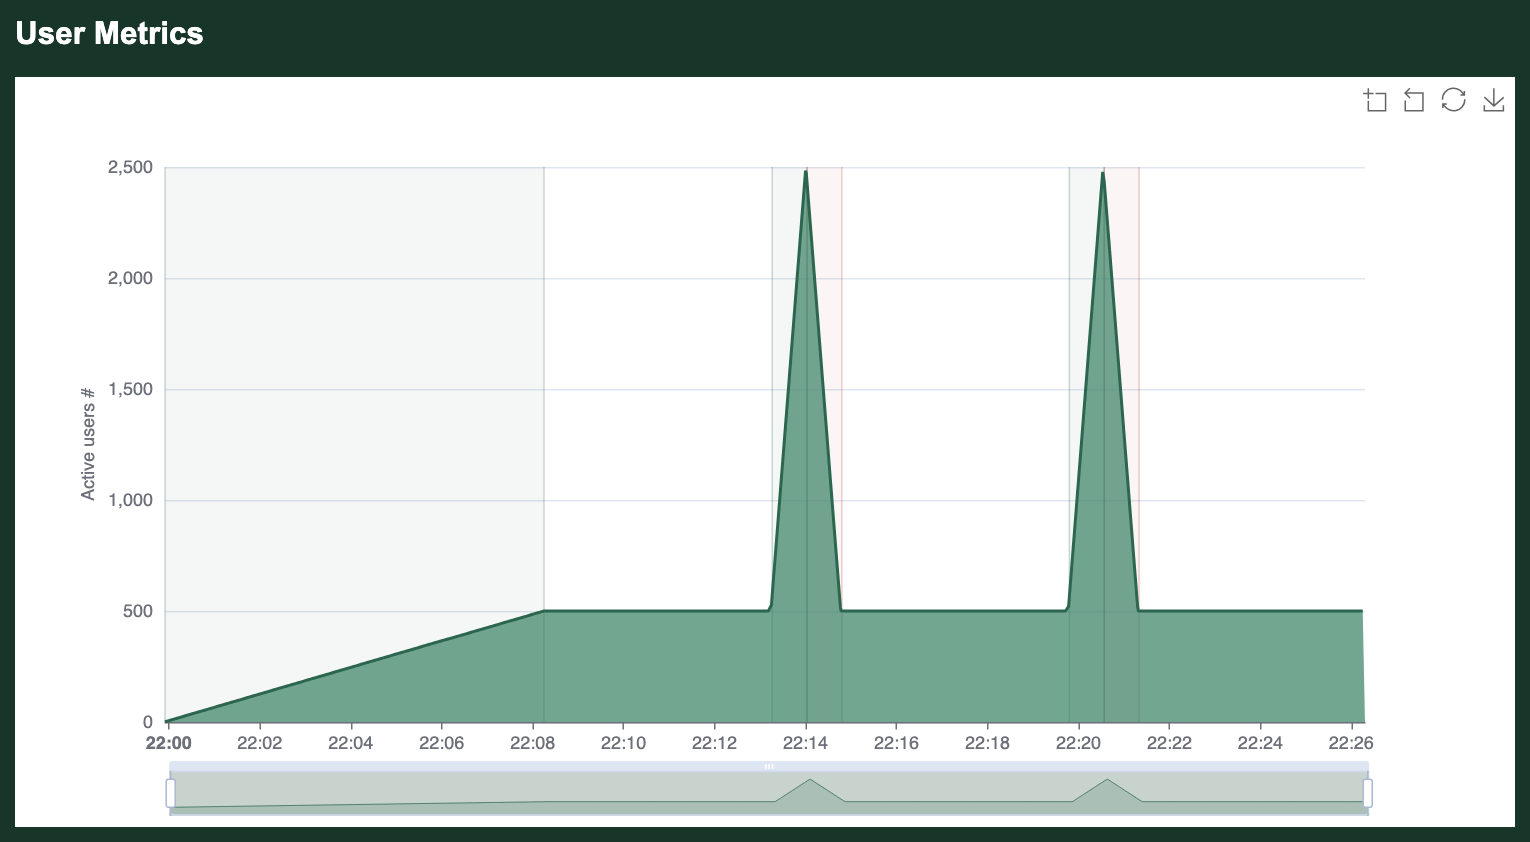
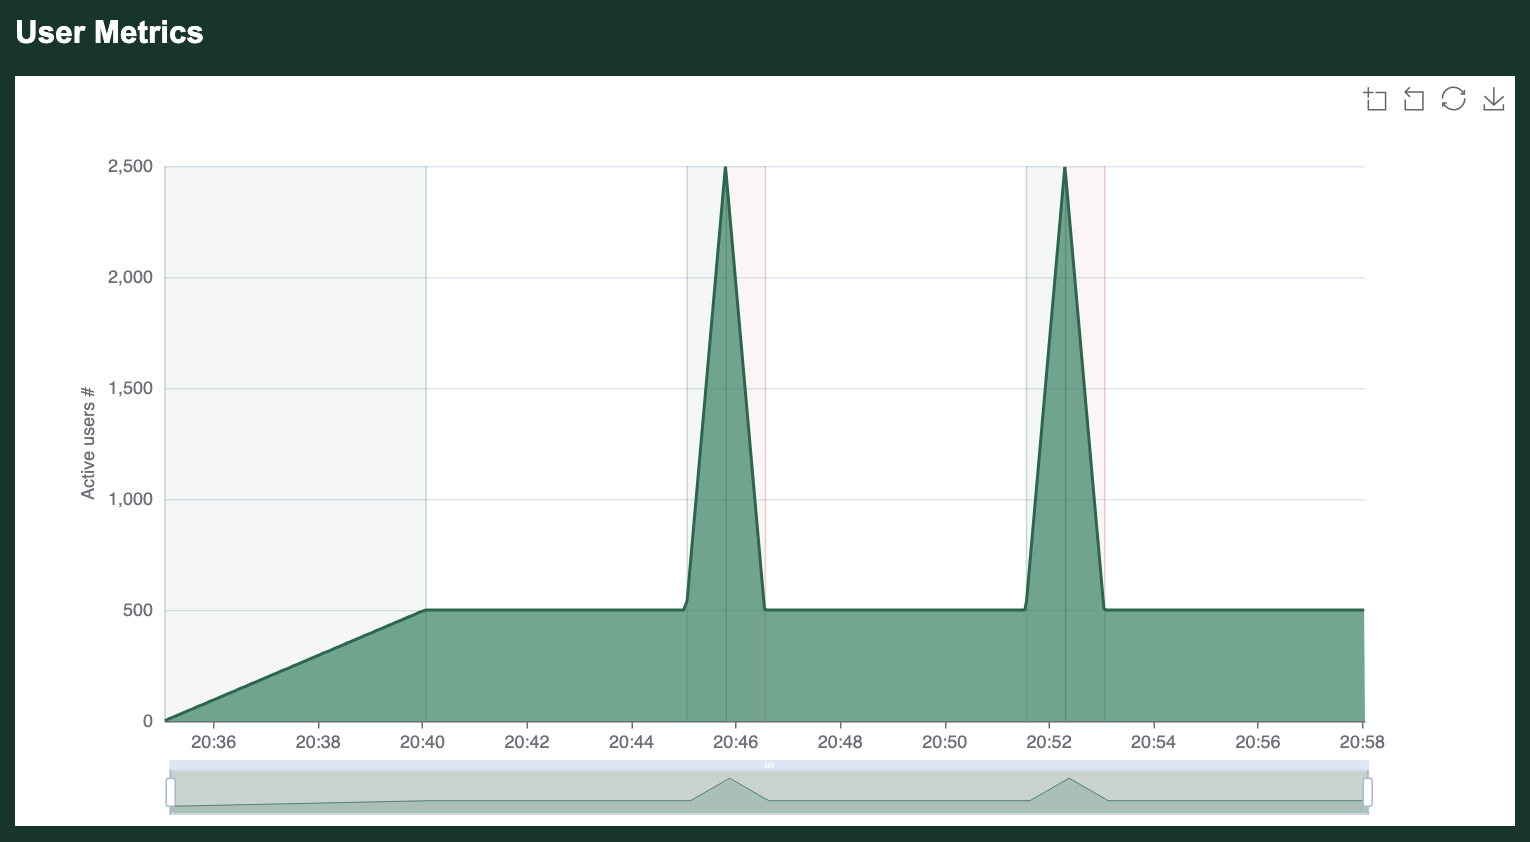
docs: retake the load spike graph from main, where the first step takes its 5 minutes, and state the test plan time units

diff --git a/src/docs/goose-book/src/getting-started/test-plan.md b/src/docs/goose-book/src/getting-started/test-plan.md
@@ -4,7 +4,7 @@ A load test that ramps up to full strength and then runs for a set amount of tim
 
 A test plan is defined as a series of numerical pairs that each defines a number of users, and the amount of time to ramp to this number of users. For example, `10,60s` means "launch 10 users over 60 seconds". By stringing together multiple pairs separated by a semicolon you can define more complex test plans. For example, `10,1m;10,5m;0,0s` means "launch 10 users over 1 minute, continue with 10 users for 5 minutes, then shut down the load test as quickly as possible".
 
-The amount of time can be defined in seconds (e.g. `10,5s`), minutes (e.g. `10,15m`) or hours (e.g. `10,1h`), or a mix of them in that order (e.g. `10,1h30m`). A bare number is seconds (e.g. `10,90`). White space around each number is ignored.
+The amount of time can be defined in seconds (e.g. `10,5s`), minutes (e.g. `10,15m`) or hours (e.g. `10,1h`), or a mix of them in that order (e.g. `10,1h30m`). A bare number is seconds (e.g. `10,90`), and a step with no time (e.g. `0,`) takes 0 seconds. The units are lower case, and nothing else is allowed, so `10,15mins` and `10,1M` are refused. White space around each number is ignored.
 
 A test plan sets every user count and time itself, so `--test-plan` is not allowed with `--users`, `--increase-rate`, `--increase-time`, `--decrease-rate`, `--decrease-time`, `--run-time`, `--iterations` or `--no-reset-metrics`. Goose refuses a test plan before any user starts when a step does not parse, when the plan never starts a user (such as `0,10s`), when its users add up to more than fit in a `usize`, or when a time is too long to count in milliseconds. These samples run the `simple` example from a Goose checkout:
 
@@ -54,7 +54,7 @@ $ cargo run --release -- -H http://local.dev/ --test-plan "500,5m;500,5m;2500,45
 
 ![Load spike test plan](test-plan-load-spike.png)
 
-In this run the first step took 8 minutes 20 seconds rather than 5 minutes: 500 users in 5 minutes is one user every 600 milliseconds, which Goose rounds up to one a second (see [Specifying the increase rate](./common.html#specifying-the-increase-rate)).
+This graph comes from the `simple` example run with that test plan against a local server. Each step took the time it names: the first step started a user every 600 milliseconds and reached 500 users after 5 minutes (see [Specifying the increase rate](./common.html#specifying-the-increase-rate)).
 
 ## Internals
 
